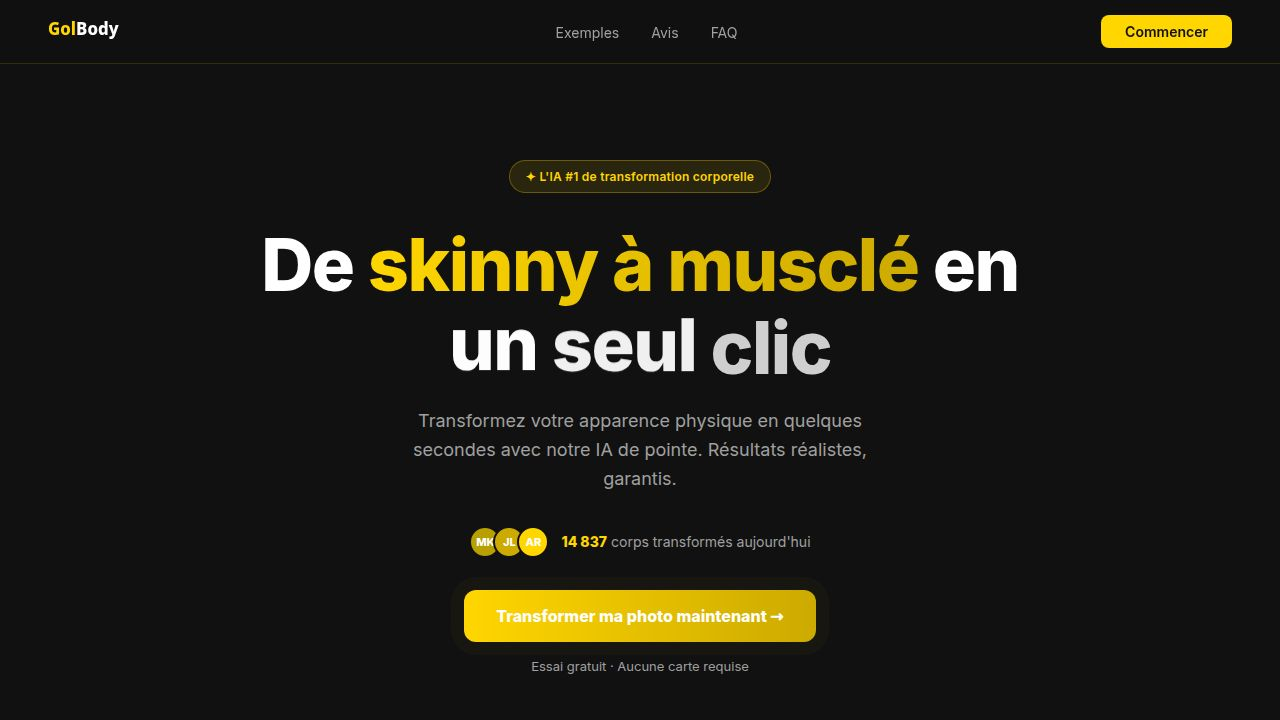
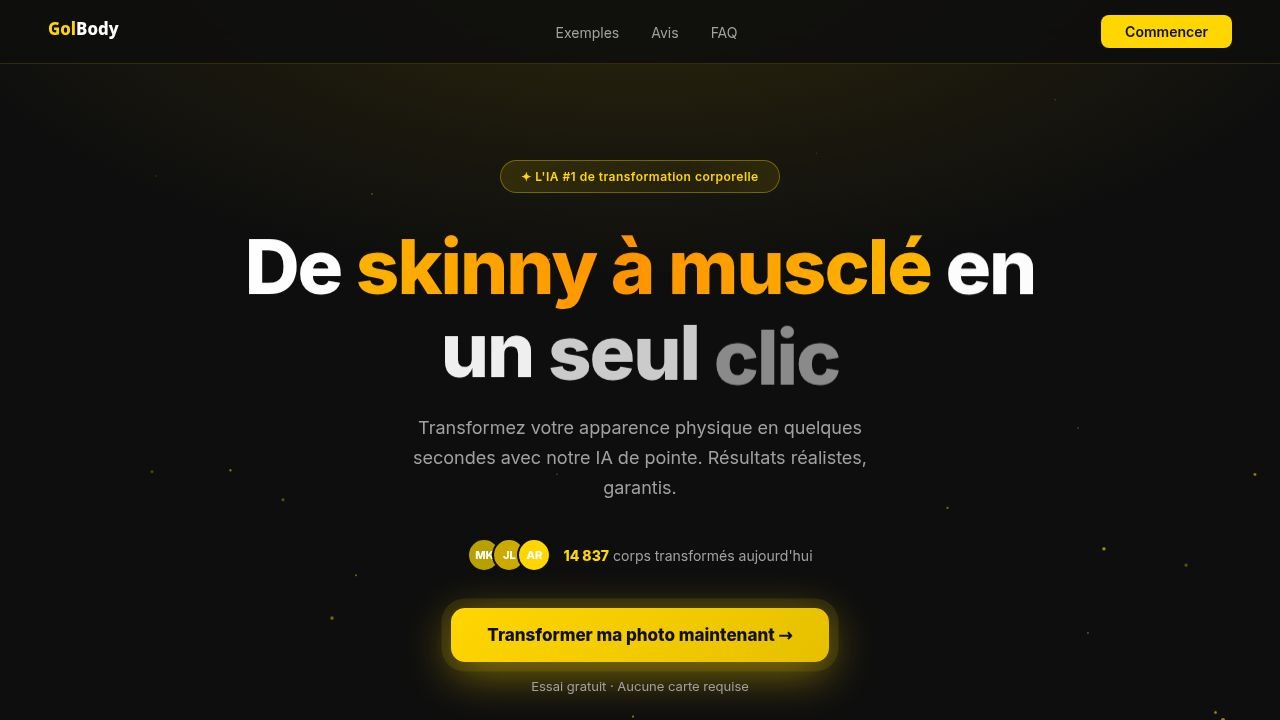
fix: Gemini v1alpha API + gemini-2.0-flash-exp model

diff --git a/artifacts/api-server/public/dashboard.html b/artifacts/api-server/public/dashboard.html
@@ -2140,31 +2140,8 @@
         if (submitRes.status === 401) { window.location.href = 'login.html'; return; }
         const submitData = await submitRes.json();
         if (!submitRes.ok) throw new Error(submitData.error || 'Erreur lors de la soumission');
-        const { requestId } = submitData;
-
-        let afterUrl = null;
-        for (let i = 0; i < 90; i++) {
-          await new Promise(r => setTimeout(r, 2000));
-          const statusRes = await fetch('/api/generate/status/' + requestId, {
-            headers: { 'Authorization': 'Bearer ' + token }
-          });
-          const statusData = await statusRes.json();
-          if (statusData.status === 'COMPLETED') {
-            const resultRes = await fetch('/api/generate/result/' + requestId, {
-              headers: { 'Authorization': 'Bearer ' + token }
-            });
-            const resultData = await resultRes.json();
-            if (!resultRes.ok) throw new Error(resultData.error || 'Erreur résultat');
-            afterUrl = resultData.imageUrl;
-            break;
-          } else if (statusData.status === 'FAILED') {
-            throw new Error('La génération a échoué');
-          }
-        }
-        if (!afterUrl) throw new Error('Timeout — génération trop longue');
-        if (!afterUrl) {
-          throw new Error('Aucune image retournée par l\'API');
-        }
+        const afterUrl = submitData.imageUrl;
+        if (!afterUrl) throw new Error('Aucune image retournée par l\'API');
 
         // Deduct credits after successful generation
         if (currentUser) {

diff --git a/artifacts/api-server/src/routes/generate.ts b/artifacts/api-server/src/routes/generate.ts
@@ -4,7 +4,7 @@ import { logger } from "../lib/logger";
 
 const router = Router();
 const GEMINI_API_KEY = process.env["GEMINI_API_KEY"];
-const ai = GEMINI_API_KEY ? new GoogleGenAI({ apiKey: GEMINI_API_KEY }) : null;
+const ai = GEMINI_API_KEY ? new GoogleGenAI({ apiKey: GEMINI_API_KEY, httpOptions: { apiVersion: "v1alpha" } }) : null;
 
 // Synchronous image generation via Gemini
 router.post("/generate", async (req: Request, res: ExpressResponse) => {
@@ -29,7 +29,7 @@ router.post("/generate", async (req: Request, res: ExpressResponse) => {
     const base64Data = matches[2];
 
     const response = await ai.models.generateContent({
-      model: "gemini-2.0-flash-preview-image-generation",
+      model: "gemini-2.0-flash-exp",
       contents: [{
         parts: [
           { inlineData: { mimeType, data: base64Data } },